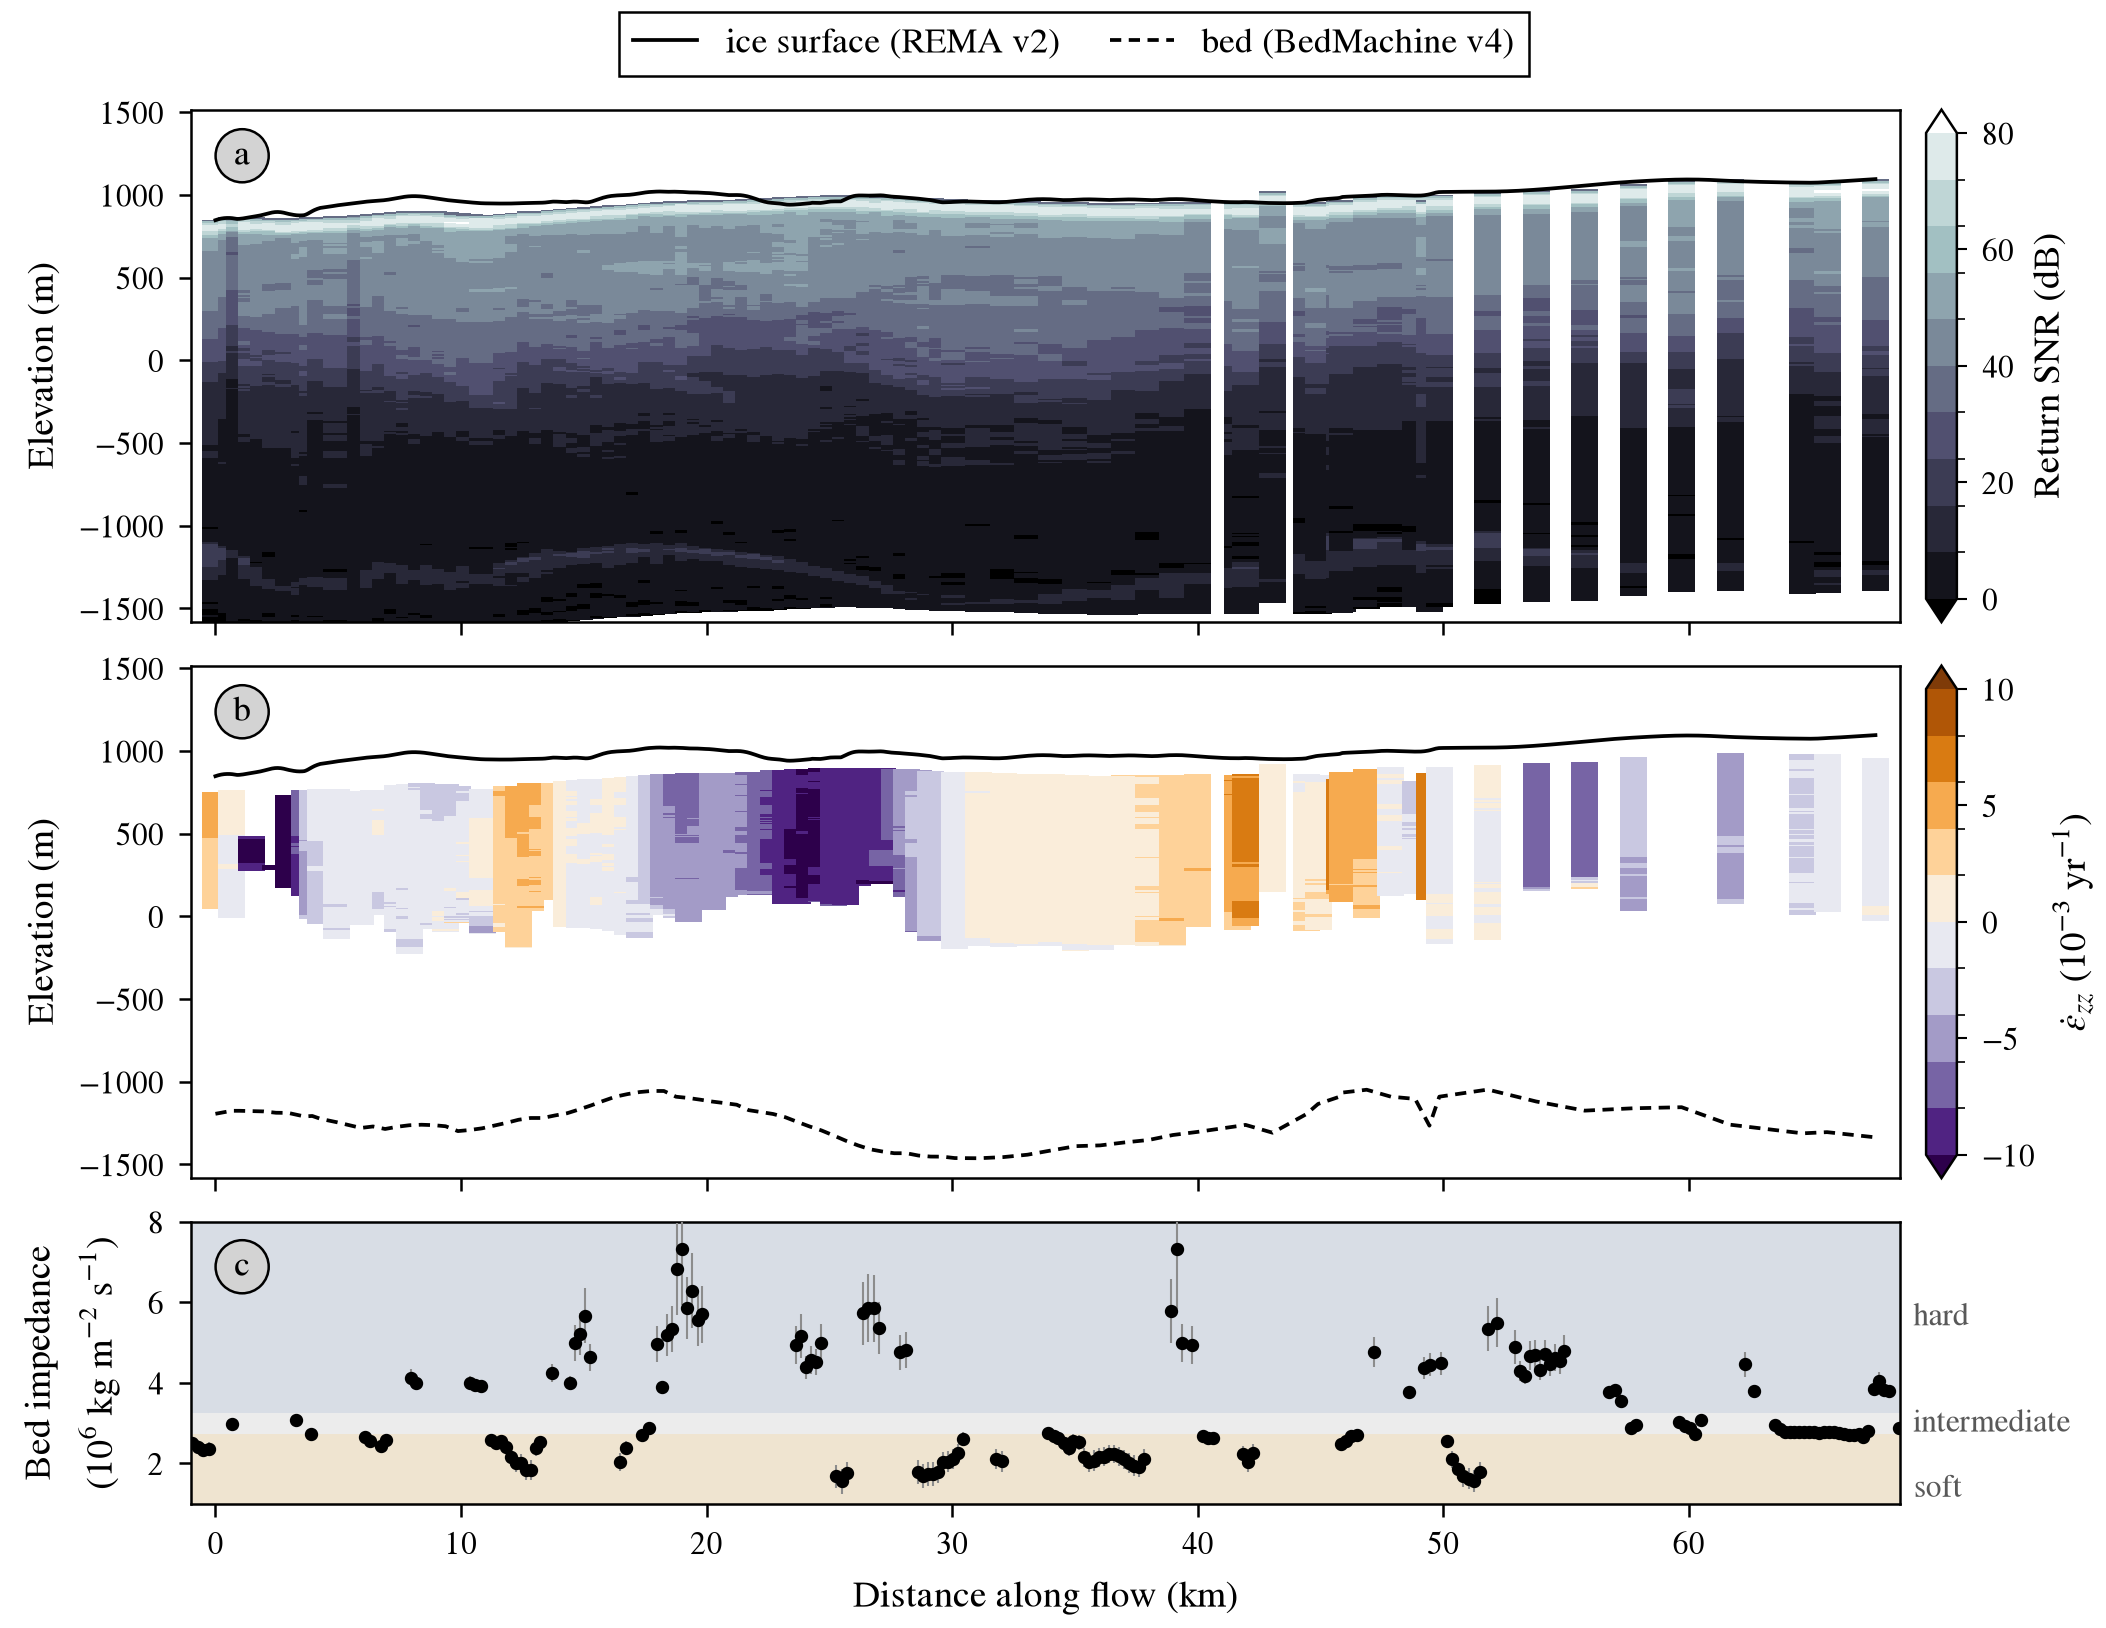
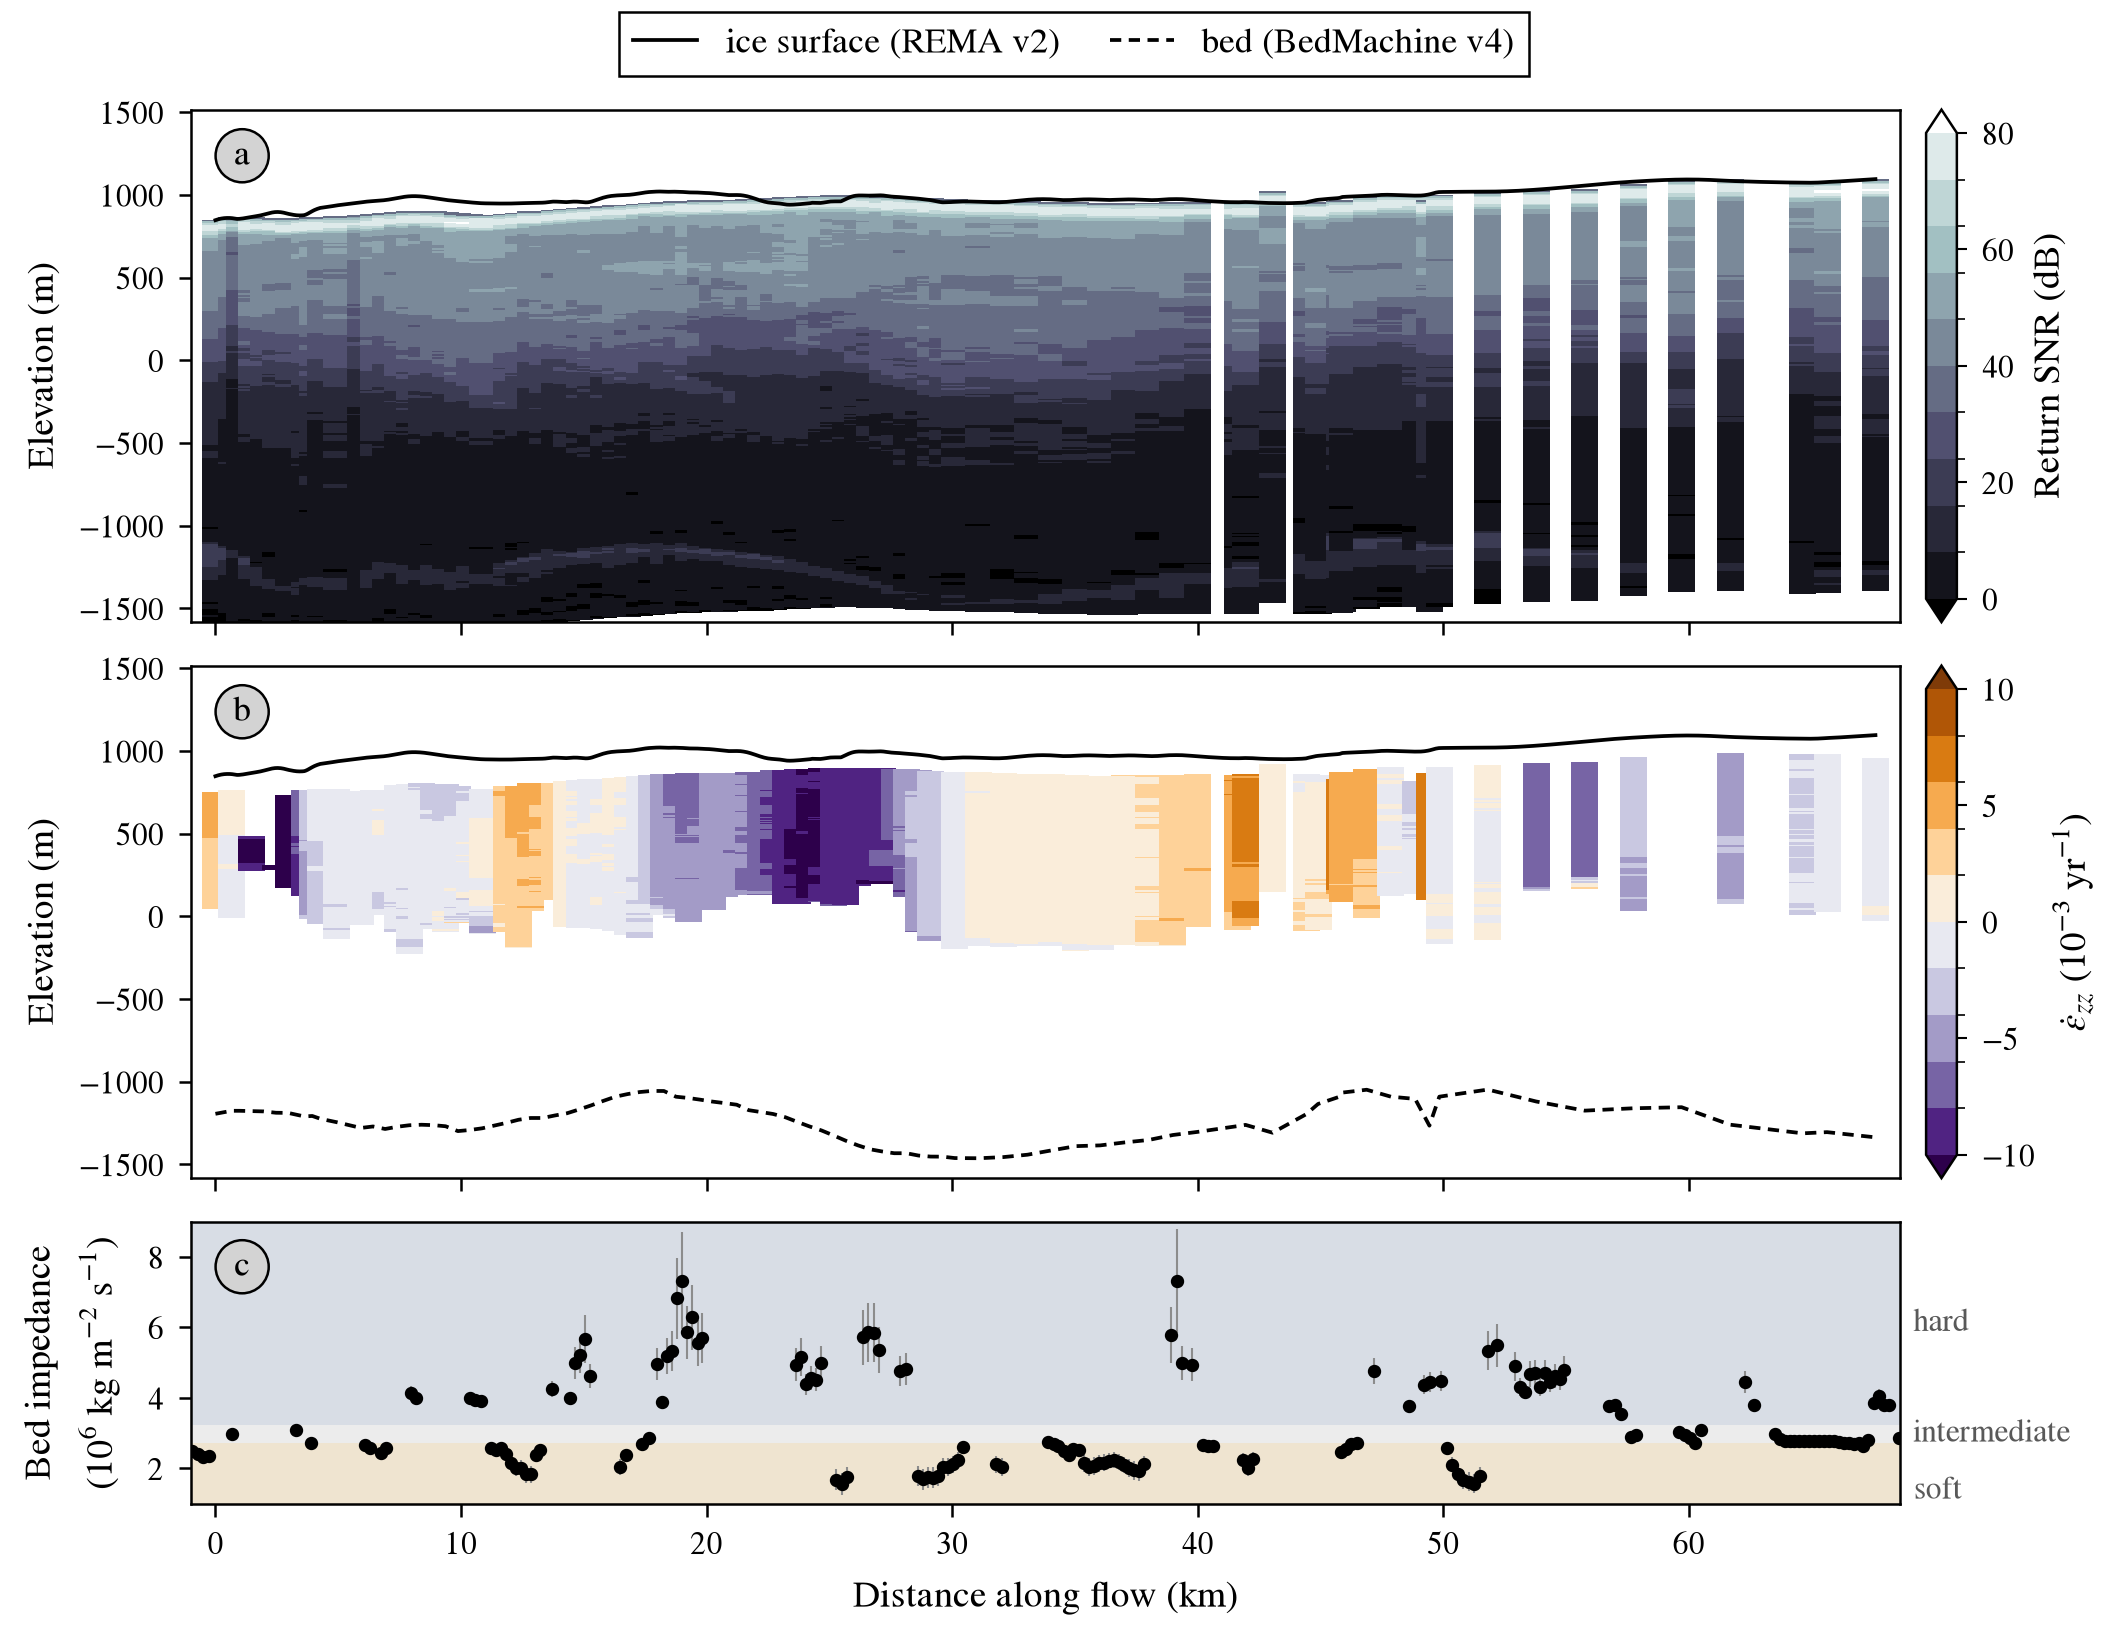
Fix Fig. 2 vibroseis defaults and impedance axis
Default VIBROSEIS_ATTRIBUTES to the repo's data/vibroseis directory,
let the impedance axis top extend to the largest Zb + error so no error
bar is clipped, and drop the unused seismic.bed_class helper.

Changed region(s): [[0.0926, 0.7678, 0.9877, 0.9214], [0.8951, 0.7985, 0.9259, 0.8292], [0.0617, 0.7985, 0.0926, 0.8292]]

diff --git a/scripts/figures/fig02_section.py b/scripts/figures/fig02_section.py
@@ -222,7 +222,9 @@ def main() -> None:
     att = att[(att["distance_km"] >= dist.min() - SPAN_PAD_KM)
               & (att["distance_km"] <= dist.max() + SPAN_PAD_KM)]
     ax = axs[2]
-    bounds = (0.0, seismic.ZB_SOFT_MAX, seismic.ZB_HARD_MIN, ZB_AXIS_MAX)
+    zb_lo = min(1.0, float(np.floor((att["Zb"] - att["Zb_err"]).min())))
+    zb_hi = max(ZB_AXIS_MAX, float(np.ceil((att["Zb"] + att["Zb_err"]).max())))
+    bounds = (0.0, seismic.ZB_SOFT_MAX, seismic.ZB_HARD_MIN, zb_hi)
     for lo, hi, fill, label in zip(bounds[:-1], bounds[1:], BED_CLASS_FILL, BED_CLASS_LABEL):
         ax.axhspan(lo, hi, color=fill, lw=0, zorder=0)
         # Labels sit outside the right spine, in the column the colour bars use
@@ -232,7 +234,7 @@ def main() -> None:
     ax.errorbar(att["distance_km"], att["Zb"], yerr=att["Zb_err"], fmt="o", ms=2.2,
                 color=style.COLOR_SURFACE_LINE, ecolor="0.55", elinewidth=0.5, capsize=0,
                 zorder=3)
-    ax.set_ylim(min(1.0, float(np.floor((att["Zb"] - att["Zb_err"]).min()))), ZB_AXIS_MAX)
+    ax.set_ylim(zb_lo, zb_hi)
     ax.set_ylabel("Bed impedance\n($10^{6}$ kg m$^{-2}$ s$^{-1}$)")
     style.panel_letter(ax, "c", x=0.03, y=0.84)
     axs[0].set_xlim(dist.min() - SPAN_PAD_KM, dist.max() + SPAN_PAD_KM)

diff --git a/scripts/paths.py b/scripts/paths.py
@@ -33,7 +33,7 @@ VV_SUMMARY = VERTICAL_VELOCITY / "site_summary.csv"
 
 # ------------------------------------------------------- external reference data
 # Overridable with environment variables so the pipeline is portable.
-def _env_path(var: str, default: str) -> Path:
+def _env_path(var: str, default: str | Path) -> Path:
     return Path(os.environ.get(var, default)).expanduser()
 
 
@@ -97,7 +97,7 @@ MEASURES_GL = _env_path(
 # ApRES flowline, within about 2 km of the stations over the survey span.
 VIBROSEIS_ATTRIBUTES = _env_path(
     "VIBROSEIS_ATTRIBUTES",
-    "~/data/vibroseis/DS4_20230551_SeismicAttributes_Bed_v02.csv",
+    DATA / "vibroseis" / "DS4_20230551_SeismicAttributes_Bed_v02.csv",
 )
 
 # Model mesh (nodes and triangles) exported by paper_extract.py, read for the

diff --git a/scripts/figures/seismic.py b/scripts/figures/seismic.py
@@ -22,7 +22,6 @@ from __future__ import annotations
 import sys
 from pathlib import Path
 
-import numpy as np
 import pandas as pd
 
 HERE = Path(__file__).resolve().parent
@@ -75,7 +74,3 @@ def bed_attributes(pairs: pd.DataFrame, max_offline_km: float = MAX_OFFLINE_KM) 
     out = out[out["offline_km"] <= max_offline_km]
     return out.sort_values("distance_km").reset_index(drop=True)
 
-
-def bed_class(zb: np.ndarray) -> np.ndarray:
-    """0 soft, 1 intermediate, 2 hard, by the Zeising et al. (2026) bounds."""
-    return np.where(zb < ZB_SOFT_MAX, 0, np.where(zb > ZB_HARD_MIN, 2, 1))
